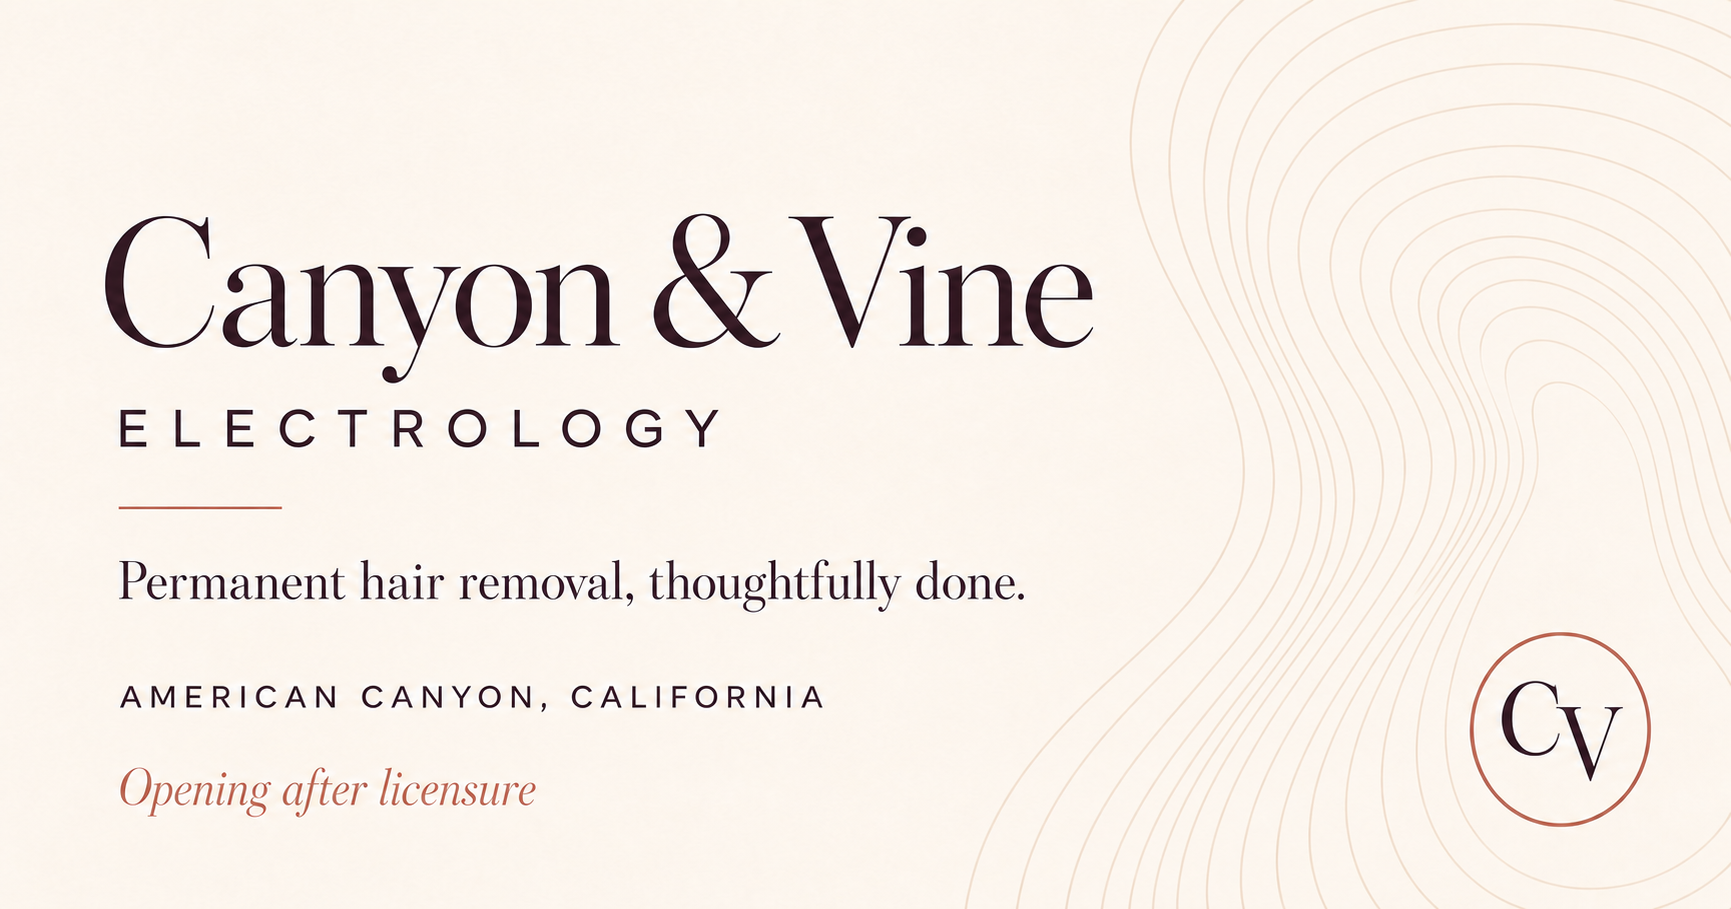
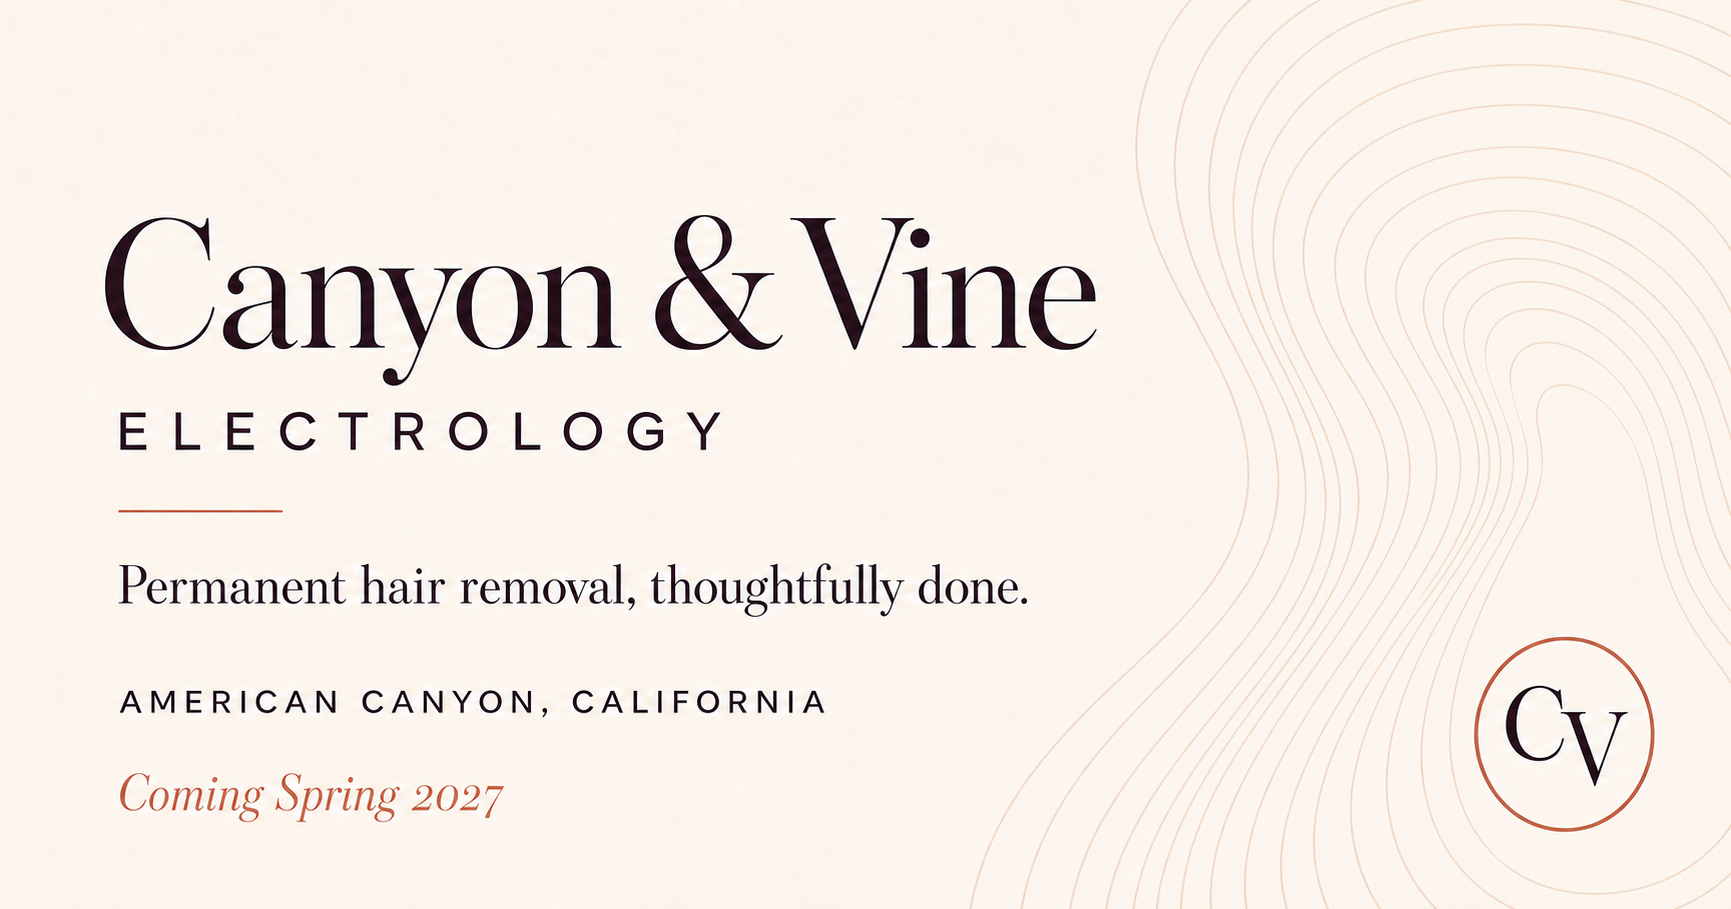
Set Spring 2027 opening date

diff --git a/app/page.tsx b/app/page.tsx
@@ -117,7 +117,7 @@ export default function Home() {
       </a>
 
       <div className="announcement">
-        <span>Opening after California licensure</span>
+        <span>Coming Spring 2027</span>
         <span className="announcement-dot" aria-hidden="true" />
         <span>American Canyon, CA</span>
       </div>
@@ -208,7 +208,7 @@ export default function Home() {
           </div>
           <div>
             <span className="trust-number">04</span>
-            <p><strong>Licensed</strong> California practice at opening</p>
+            <p><strong>Planned</strong> for Spring 2027</p>
           </div>
         </section>
 
@@ -356,10 +356,10 @@ export default function Home() {
               <span>Nav’s approach</span>
               <p>Science-minded care, candid guidance, and a treatment plan shaped around the individual—not a template.</p>
             </div>
-            <div className="credential-list" aria-label="Nav's education and pending credentials">
+            <div className="credential-list" aria-label="Nav's education and launch details">
               <span>Microbiology · UC Davis</span>
               <span>Electrology · California Electrology Academy</span>
-              <span>California electrologist license · Pending</span>
+              <span>Opening · Spring 2027</span>
             </div>
           </div>
         </section>
@@ -427,7 +427,7 @@ export default function Home() {
         <p>Permanent hair removal, thoughtfully done.</p>
         <div className="footer-meta">
           <span>© 2026 Canyon &amp; Vine Electrology</span>
-          <span>Pre-opening concept · Booking opens after licensure</span>
+          <span>Coming Spring 2027 · American Canyon</span>
         </div>
       </footer>
     </main>

diff --git a/app/layout.tsx b/app/layout.tsx
@@ -45,7 +45,7 @@ export async function generateMetadata(): Promise<Metadata> {
     openGraph: {
       title: "Canyon & Vine Electrology",
       description:
-        "Permanent hair removal, thoughtfully done. Opening after licensure in American Canyon, California.",
+        "Permanent hair removal, thoughtfully done. Coming Spring 2027 to American Canyon, California.",
       type: "website",
       locale: "en_US",
       images: [
@@ -61,7 +61,7 @@ export async function generateMetadata(): Promise<Metadata> {
       card: "summary_large_image",
       title: "Canyon & Vine Electrology",
       description:
-        "Permanent hair removal, thoughtfully done. Opening after licensure in American Canyon, California.",
+        "Permanent hair removal, thoughtfully done. Coming Spring 2027 to American Canyon, California.",
       images: [socialImage],
     },
     robots: {

diff --git a/README.md b/README.md
@@ -1,13 +1,13 @@
 # Canyon & Vine Electrology
 
 A responsive concept site for a future private electrology practice in American
-Canyon, California. The working brand, contact details, service menu, and launch
-language are intentionally provisional while the practitioner completes training
-and California licensure.
+Canyon, California. The working brand, contact details, service menu, and Spring
+2027 launch language are intentionally provisional while the practitioner
+completes training.
 
 ## What the mockup includes
 
-- opening-soon positioning that does not imply current licensure
+- Spring 2027 opening positioning that does not imply current licensure
 - face, selected body, hormonal-hair, gender-affirming, grooming, precision,
   and extended-session service concepts
 - common treatment areas and the three electrology modalities